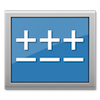
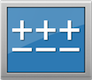
botones css caracteristicas

diff --git a/index.html b/index.html
@@ -13,49 +13,71 @@
     </head>
     <body>
         <div id="cuerpo" class="container_12">
-    <div id="header" class="grid_6">
-     <img id="logo" src="/gitx_icon.png"/>
-        <h1>GitX (L)</h1>
-        <h2>by <a href="https://github.com/laullon">Germ&aacute;n Laull&oacute;n</a></h2>
-        </div>
-<div  class="grid_6">
-            <div id="download">
-                <a href="https://github.com/downloads/laullon/gitx/GitX-L_v0.8.0.zip" tite="download gitx">Download GitX (L) v0.8.0</a>
+            <div id="header" class="grid_6">
+                <img id="logo" src="/gitx_icon.png"/>
+                <h1>GitX (L)</h1>
+                <h2>by <a href="https://github.com/laullon">Germ&aacute;n Laull&oacute;n</a></h2>
             </div>
-            <p class="cent"><a href="https://github.com/laullon/gitx/blob/master/COPYING">GPL v2</a></p>
+            <div  class="grid_6">
+                <div id="download">
+                    <a href="https://github.com/downloads/laullon/gitx/GitX-L_v0.8.0.zip" class="button" tite="download gitx"><span>Download GitX (L) v0.8.0</span></a>
+                </div>
+                <p id="license"><a href="https://github.com/laullon/gitx/blob/master/COPYING" class="button" ><span>License GPL v2</span></a></p>
             </div>
 
-    <div class="clear"></div>
+            <hr/>
+            <div class="clear"></div>
             <div id="screenshots">
-                <div class="grid_4 izq">
+                <div class="grid_4">
                     <a href="blame.png" title="git gitx blame" rel="lightbox[gitx]"><img src="/blame_mini.png" alt="gitx screenshot blame"></a>
                 </div>
-                <div class="grid_4 cent">
+                <div class="grid_4">
                     <a href="commit.png" title="git gitx commit" rel="lightbox[gitx]"><img src="/commit_mini.png" alt="gitx screenshot blame"></a>
                 </div>
-                <div class="grid_4 der">
+                <div class="grid_4">
                     <a href="file_view.png" title="git gitx file view source code" rel="lightbox[gitx]"><img src="/file_view_mini.png" alt="gitx screenshot blame"></a>
                 </div>
             </div>
-            <div class="clear"></div>
-            <!--div id="caract">
-            <div class="grid_3">
-            	<h4>Commit view</h4>
-            	<ul>
-            		<li>File changes counts</li>
-            	</ul>
+            <hr/>
+            <div id="caract">
+                <div class="grid_3">
+                    <h4>Commit view</h4>
+                    <ul>
+                        <li>Commit/Parents/Tree SHA links</li>
+                        <li>File changes counts</li>
+                        <li>File Diffs</li>
+                        <li>Commit Tags and Refs</li>
+                    </ul>
+                </div>
+                <div class="grid_3">
+                    <h4>File view</h4>
+                    <ul>
+                        <li>Source Code Highlight</li>
+                        <li>Blame</li>
+                        <li>File History (log)</li>
+                        <li>Diff with local and HEAD</li>
+                    </ul>
+                </div>
+                <div class="grid_3">
+                    <h4>Sidebar</h4>
+                    <ul>
+                        <li>Branches</li>
+                        <li>Remotes</li>
+                        <li>Stashes</li>
+                        <li>Submodules</li>
+                    </ul>
+                </div>
+                <div class="grid_3">
+                    <h4>Stage view</h4>
+                    <ul>
+                        <li>Unstaged/Staged files</li>
+                        <li>Stage/Discard by lines</li>
+                        <li>Amend</li>
+                        <li>File diff</li>
+                    </ul>
+                </div>
             </div>
-            <div class="grid_3">
-            	<h4>File view</h4>
-            </div>
-            <div class="grid_3">
-            	<h4>Sidebar</h4>
-            </div>
-            <div class="grid_3">
-            	<h4>Stage view</h4>
-            </div>
-            </div-->
-            <div class="clear"></div>
+            <hr/>
             <div class="grid_6" lang="es_ES">
                 <h2>Espa&ntilde;ol</h2>
                 <p>Esta es mi propia versi&oacute;n de GitX y cumple con mis requisitos para el uso diario de Git en MacOSX.<p>
@@ -68,12 +90,12 @@
                 <p>GitX run on MacOSX 10.6, but It could work on previous version, but I can't test it, if you can, <a href="https://github.com/inbox/new/laullon">send me a message</a>.</p>
                 <p>GitX requires Git 1.6.0 or higher</p>
             </div>
-                <div class="clear"></div>
-
+            <div class="clear"></div>
+            <hr/>
             <div class="grid_6">
                 <h3>Committers</h3>
                 <p class="cent">git log --all --format='&lt;li&gt;%aN&lt;/li&gt;' | sort -u</p>
-                <ul>
+                <ul class="line">
                     <li>Adi Luhung Suryadi</li>
                     <li>Anders Carling</li>
                     <li>Andre Berg</li>

diff --git a/gitx.css b/gitx.css
@@ -1,33 +1,75 @@
 /* @override http://gitx.laullon.com/gitx.css */
 
 #header{
-	margin-top:10px;
+    margin-top:10px;
 }
 
 #header h1{
-	margin:0;
+    margin:0;
 }
 
 #download{
-	text-align: right;
+    text-align: right;
 }
 
 img#logo{
-	float: left;
-	margin-right: 10px;
+    float: left;
+    margin-right: 10px;
 }
 
-#cuerpo ul li {
-	margin: 0;
-	display: inline;
-	white-space: nowrap;
-	border-right: 1px solid black;
-	padding-right: 5px;
-	padding-left: 5px;
+ul.line li {
+    margin: 0;
+    display: inline;
+    white-space: nowrap;
+    border-right: 1px solid black;
+    padding-right: 5px;
+    padding-left: 5px;
 }
 
-#download {
-	text-align: center;
-	font-size: 30px;
+
+p#license,#download {
+    float: right;
+    padding-top: 10px;
+    clear: both;
 }
 
+#caract h4 {
+    margin: 0;
+}
+
+h1,h2,h3,h4{
+    text-shadow: 2px 2px 2px #aaa;
+}
+
+
+a.button {
+    background: transparent url('bg_button_a.gif') no-repeat scroll top right;
+    color: #444;
+    display: block;
+    float: left;
+    font: normal 12px arial, sans-serif;
+    height: 24px;
+    margin-right: 6px;
+    padding-right: 18px; /* sliding doors padding */
+    text-decoration: none;
+    width: 183px;
+    text-align: center;
+}
+
+a.button span {
+    background: transparent url('bg_button_span.gif') no-repeat;
+    display: block;
+    line-height: 14px;
+    padding: 5px 0 5px 18px;
+}
+
+a.button:active {
+    background-position: bottom right;
+    color: #000;
+    outline: none; /* hide dotted outline in Firefox */
+}
+
+a.button:active span {
+    background-position: bottom left;
+    padding: 6px 0 4px 18px; /* push text down 1px */
+}
